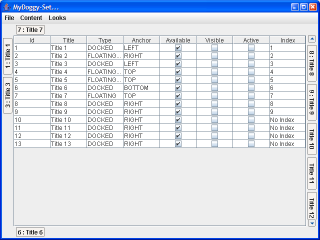
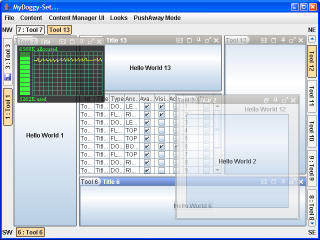
some updates...

diff --git a/mydoggy-examples/src/main/java/org/noos/xing/mydoggy/examples/mydoggyset/MyDoggySet.java b/mydoggy-examples/src/main/java/org/noos/xing/mydoggy/examples/mydoggyset/MyDoggySet.java
@@ -279,29 +279,27 @@ public class MyDoggySet {
         FloatingTypeDescriptor typeDescriptor = (FloatingTypeDescriptor) toolWindowManager.getTypeDescriptorTemplate(ToolWindowType.FLOATING);
         typeDescriptor.setTransparentDelay(0);
 
-
         JPanel panel = new JPanel(new TableLayout(new double[][]{{20, -1, 20}, {20, -1, 20}}));
         panel.add(new JButton("Hello World 2"), "1,1,FULL,FULL");
 
-		toolWindowManager.registerToolWindow("Title 1", "Title 1", null, new JButton("Hello World 1"), ToolWindowAnchor.LEFT);
-        toolWindowManager.registerToolWindow("2", "Title 2", null, panel, ToolWindowAnchor.RIGHT);
-        toolWindowManager.registerToolWindow("3", "Title 3",
+		toolWindowManager.registerToolWindow("Tool 1", "Title 1", null, new JButton("Hello World 1"), ToolWindowAnchor.LEFT);
+        toolWindowManager.registerToolWindow("Tool 2", "Title 2", null, panel, ToolWindowAnchor.RIGHT);
+        toolWindowManager.registerToolWindow("Tool 3", "Title 3",
                                              SwingUtil.loadIcon("org/noos/xing/mydoggy/examples/mydoggyset/icons/save.png"),
                                              new JButton("Hello World 3"), ToolWindowAnchor.LEFT);
-        toolWindowManager.registerToolWindow("4", "Title 4", null, new JButton("Hello World 4"), ToolWindowAnchor.TOP);
-        toolWindowManager.registerToolWindow("5", "Title 5", null, new JButton("Hello World 5"), ToolWindowAnchor.TOP);
-        toolWindowManager.registerToolWindow("6", "Title 6", null, new JButton("Hello World 6"), ToolWindowAnchor.BOTTOM);
+        toolWindowManager.registerToolWindow("Tool 4", "Title 4", null, new JButton("Hello World 4"), ToolWindowAnchor.TOP);
+        toolWindowManager.registerToolWindow("Tool 5", "Title 5", null, new JButton("Hello World 5"), ToolWindowAnchor.TOP);
+        toolWindowManager.registerToolWindow("Tool 6", "Title 6", null, new JButton("Hello World 6"), ToolWindowAnchor.BOTTOM);
+
         MonitorPanel monitorPanel = new MonitorPanel(new RuntimeMemoryMonitorSource());
         monitorPanel.start();
-        toolWindowManager.registerToolWindow("7", "Title 7", null,
-                                             /*new JButton("Hello World 7")*/ monitorPanel, 
-                                             ToolWindowAnchor.TOP);
-        toolWindowManager.registerToolWindow("8", "Title 8", null, new JButton("Hello World 8"), ToolWindowAnchor.RIGHT);
-        toolWindowManager.registerToolWindow("9", "Title 9", null, new JButton("Hello World 9"), ToolWindowAnchor.RIGHT);
-        toolWindowManager.registerToolWindow("10", "Title 10", null, new JButton("Hello World 10"), ToolWindowAnchor.RIGHT);
-        toolWindowManager.registerToolWindow("11", "Title 11", null, new JButton("Hello World 11"), ToolWindowAnchor.RIGHT);
-        toolWindowManager.registerToolWindow("12", "Title 12", null, new JButton("Hello World 12"), ToolWindowAnchor.RIGHT);
-        toolWindowManager.registerToolWindow("13", "Title 13", null, new JButton("Hello World 13"), ToolWindowAnchor.RIGHT);
+        toolWindowManager.registerToolWindow("Tool 7", "Title 7", null, monitorPanel, ToolWindowAnchor.TOP);
+        toolWindowManager.registerToolWindow("Tool 8", "Title 8", null, new JButton("Hello World 8"), ToolWindowAnchor.RIGHT);
+        toolWindowManager.registerToolWindow("Tool 9", "Title 9", null, new JButton("Hello World 9"), ToolWindowAnchor.RIGHT);
+        toolWindowManager.registerToolWindow("Tool 10", "Title 10", null, new JButton("Hello World 10"), ToolWindowAnchor.RIGHT);
+        toolWindowManager.registerToolWindow("Tool 11", "Title 11", null, new JButton("Hello World 11"), ToolWindowAnchor.RIGHT);
+        toolWindowManager.registerToolWindow("Tool 12", "Title 12", null, new JButton("Hello World 12"), ToolWindowAnchor.RIGHT);
+        toolWindowManager.registerToolWindow("Tool 13", "Title 13", null, new JButton("Hello World 13"), ToolWindowAnchor.RIGHT);
 
         for (ToolWindow window : toolWindowManager.getToolWindows()) {
             window.setAvailable(true);
@@ -312,7 +310,7 @@ public class MyDoggySet {
         ToolWindowGroup submainGroup = toolWindowManager.getToolWindowGroup("SubMain");
 
         // Set TypeDescriptor properties for tool window 1
-        ToolWindow toolWindow = toolWindowManager.getToolWindow("Title 1");
+        ToolWindow toolWindow = toolWindowManager.getToolWindow("Tool 1");
 
         DockedTypeDescriptor dockedTypeDescriptor = (DockedTypeDescriptor) toolWindow.getTypeDescriptor(ToolWindowType.DOCKED);
         dockedTypeDescriptor.setPopupMenuEnabled(false);
@@ -321,7 +319,7 @@ public class MyDoggySet {
         mainGroup.addToolWindow(toolWindow);
 
         // Set properties for tool window 2
-        toolWindow = toolWindowManager.getToolWindow("2");
+        toolWindow = toolWindowManager.getToolWindow("Tool 2");
         dockedTypeDescriptor = (DockedTypeDescriptor) toolWindow.getTypeDescriptor(ToolWindowType.DOCKED);
         dockedTypeDescriptor.getToolsMenu().add(new JMenuItem("Prova"));
 
@@ -333,7 +331,7 @@ public class MyDoggySet {
 
         submainGroup.addToolWindow(toolWindow);
 
-        toolWindow = toolWindowManager.getToolWindow("3");
+        toolWindow = toolWindowManager.getToolWindow("Tool 3");
         dockedTypeDescriptor = (DockedTypeDescriptor) toolWindow.getTypeDescriptor(ToolWindowType.DOCKED);
 
         JMenuItem menuItem = new JMenuItem("Hello World!!!");
@@ -353,18 +351,18 @@ public class MyDoggySet {
         mainGroup.addToolWindow(toolWindow);
 
         // Set properties for tool window 4
-        toolWindow = toolWindowManager.getToolWindow("4");
+        toolWindow = toolWindowManager.getToolWindow("Tool 4");
         toolWindow.setType(ToolWindowType.FLOATING_FREE);
         submainGroup.addToolWindow(toolWindow);
 
         // Set properties for tool window 5
-        toolWindow = toolWindowManager.getToolWindow("5");
+        toolWindow = toolWindowManager.getToolWindow("Tool 5");
         toolWindow.setType(ToolWindowType.FLOATING_FREE);
 
-        submainGroup.addToolWindow(toolWindowManager.getToolWindow("6"));
+        submainGroup.addToolWindow(toolWindowManager.getToolWindow("Tool 6"));
 
         // Set properties for tool window 7
-        toolWindow = toolWindowManager.getToolWindow("7");
+        toolWindow = toolWindowManager.getToolWindow("Tool 7");
         toolWindow.setType(ToolWindowType.FLOATING);
 
         floatingTypeDescriptor = (FloatingTypeDescriptor) toolWindow.getTypeDescriptor(ToolWindowType.FLOATING);
